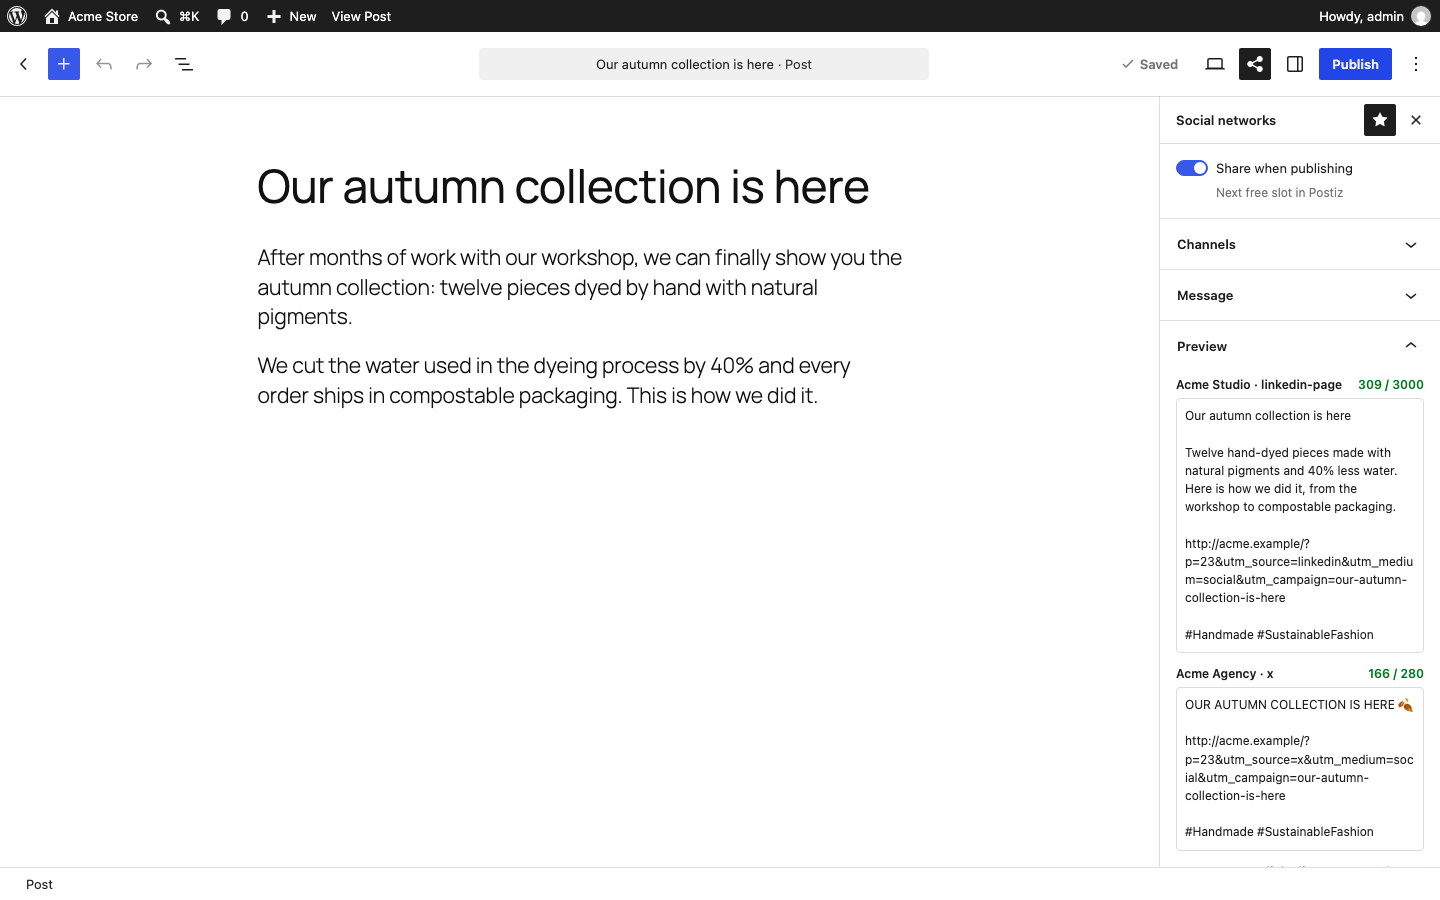
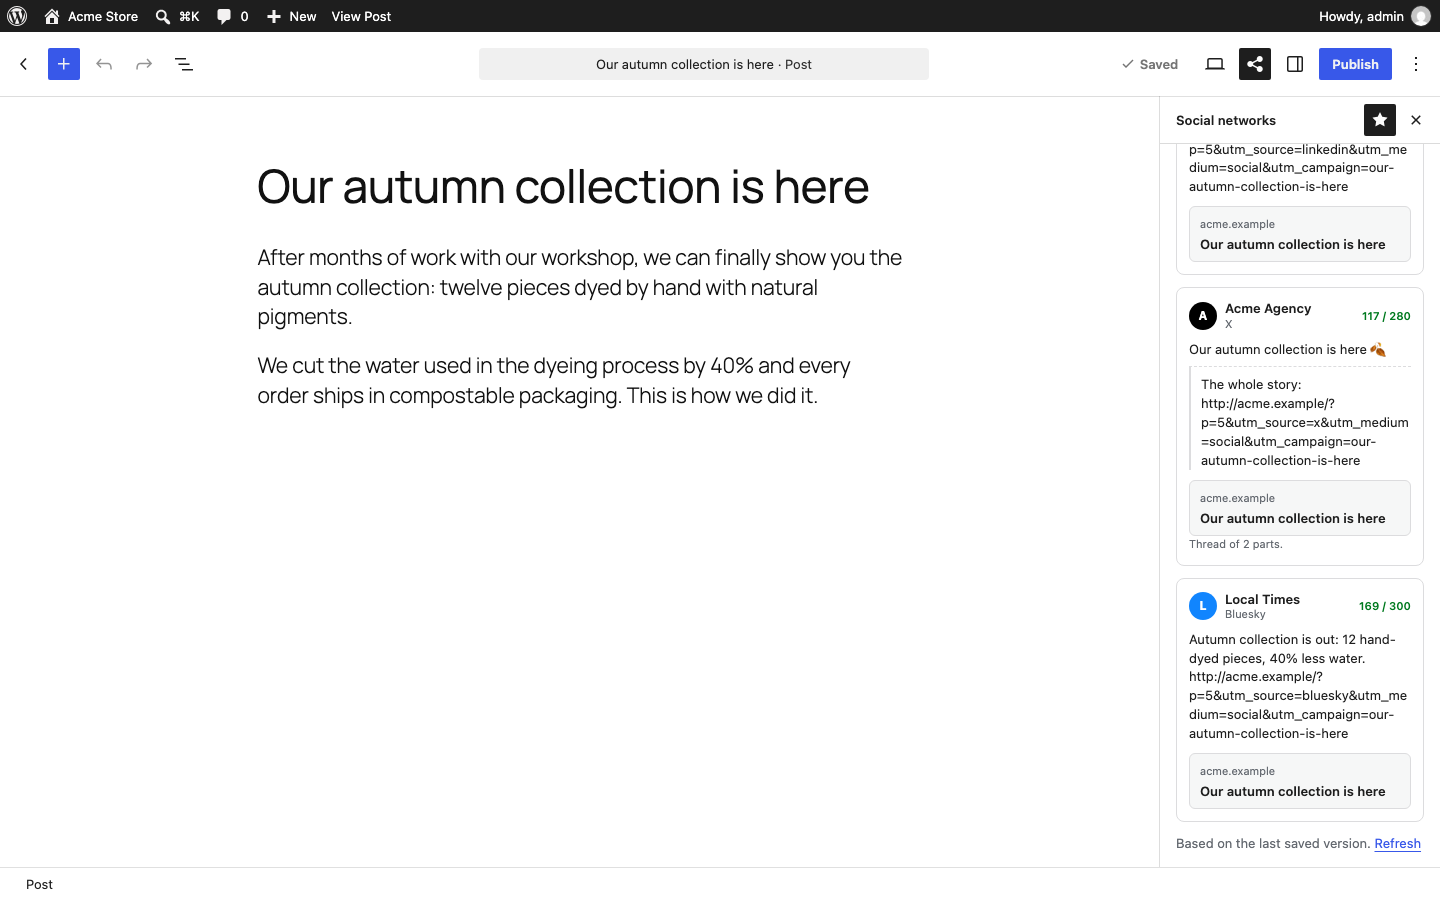
Count real requests to Postiz, compact editor tabs, new wordpress.org screenshots
- Requests in the last hour count every POST /posts (slot mode, failures and retries included).
- Per-channel tabs wrap and stay compact; the network is shown only when names repeat.
- CSS versioned by file time too; slot-mode log entries name their channel.
- Five screenshots retaken in wp-env with demo data against a local Postiz test double.

Changed region(s): [[0.8125, 0.1556, 1.0, 0.9644]]

diff --git a/assets/src/editor-panel/components/MessageSection.js b/assets/src/editor-panel/components/MessageSection.js
@@ -1,8 +1,10 @@
 import { TabPanel, TextareaControl } from '@wordpress/components';
 import { __, sprintf } from '@wordpress/i18n';
 
+import { network } from '../../common/networks';
 import { channelLabel, channelsById, config, META } from '../config';
 import { effectiveChannels } from '../hooks';
+import './message-section.css';
 
 const ALL = '__all';
 
@@ -40,13 +42,23 @@ export default function MessageSection( { meta, setMeta } ) {
 		setMeta( META.overrides, next );
 	};
 
+	// The network is only added when two selected channels share a name.
+	const names = selected.map( ( id ) => channelsById[ id ].name );
+	const tabTitle = ( id ) => {
+		const { name, identifier } = channelsById[ id ];
+		const shared = names.filter( ( other ) => other === name ).length > 1;
+		return (
+			shorten( name ) +
+			( shared ? ' · ' + network( identifier ).label : '' ) +
+			( overrides[ id ] ? ' •' : '' )
+		);
+	};
+
 	const tabs = [
 		{ name: ALL, title: __( 'All', 'social-relay-for-postiz' ) },
 		...selected.map( ( id ) => ( {
 			name: id,
-			title:
-				shorten( channelsById[ id ].name ) +
-				( overrides[ id ] ? ' •' : '' ),
+			title: tabTitle( id ),
 		} ) ),
 	];
 

diff --git a/assets/src/editor-panel/components/message-section.css b/assets/src/editor-panel/components/message-section.css
@@ -1,0 +1,17 @@
+/* Many channels: compact tabs that wrap instead of running off the sidebar. */
+.socialrelaycvi-message .components-tab-panel__tabs {
+	flex-wrap: wrap;
+	gap: 0 4px;
+	margin-bottom: 8px;
+}
+
+.socialrelaycvi-message .components-tab-panel__tabs .components-tab-panel__tabs-item.components-button {
+	flex: 0 0 auto;
+
+	/* Core sets 48px with !important. */
+	height: 32px !important;
+	min-height: 0;
+	padding: 0 8px;
+	font-size: 12px;
+	white-space: nowrap;
+}

diff --git a/assets/src/log/index.js b/assets/src/log/index.js
@@ -178,7 +178,7 @@ function LogApp() {
 							'is-error',
 						],
 						[
-							`${ stats.lastHour } / 90`,
+							`${ stats.lastHour } / ${ stats.limit || 90 }`,
 							__(
 								'Requests to Postiz in the last hour',
 								'social-relay-for-postiz'

diff --git a/tests/Unit/RequestCounterTest.php b/tests/Unit/RequestCounterTest.php
@@ -1,0 +1,85 @@
+<?php
+/**
+ * RequestCounter tests.
+ *
+ * @package SocialRelayCvi
+ */
+
+declare( strict_types=1 );
+
+namespace SocialRelayCvi\Postiz;
+
+// Option storage for the namespaced calls of RequestCounter (no WordPress in unit tests).
+if ( ! defined( 'HOUR_IN_SECONDS' ) ) {
+	define( 'HOUR_IN_SECONDS', 3600 );
+}
+
+/**
+ * In-memory options.
+ *
+ * @var array<string, mixed>
+ */
+$GLOBALS['socialrelaycvi_test_options'] = array();
+
+/**
+ * Test double for get_option().
+ *
+ * @param string $name    Option.
+ * @param mixed  $default Default.
+ * @return mixed
+ */
+function get_option( string $name, $default = false ) {
+	return $GLOBALS['socialrelaycvi_test_options'][ $name ] ?? $default;
+}
+
+/**
+ * Test double for update_option().
+ *
+ * @param string $name     Option.
+ * @param mixed  $value    Value.
+ * @param bool   $autoload Ignored.
+ */
+function update_option( string $name, $value, bool $autoload = false ): bool {
+	$GLOBALS['socialrelaycvi_test_options'][ $name ] = $value;
+	return true;
+}
+
+namespace SocialRelayCvi\Tests\Unit;
+
+use PHPUnit\Framework\TestCase;
+use SocialRelayCvi\Postiz\RequestCounter;
+
+/**
+ * Counts requests in the last hour.
+ */
+final class RequestCounterTest extends TestCase {
+
+	protected function setUp(): void {
+		$GLOBALS['socialrelaycvi_test_options'] = array();
+	}
+
+	public function test_counts_each_hit(): void {
+		RequestCounter::hit();
+		RequestCounter::hit();
+		RequestCounter::hit();
+
+		$this->assertSame( 3, RequestCounter::count() );
+	}
+
+	public function test_ignores_requests_older_than_the_window(): void {
+		$GLOBALS['socialrelaycvi_test_options'][ RequestCounter::OPTION ] = array( time() - 7200, time() - 4000, time() - 60 );
+
+		$this->assertSame( 1, RequestCounter::count() );
+
+		RequestCounter::hit();
+		$this->assertCount( 2, $GLOBALS['socialrelaycvi_test_options'][ RequestCounter::OPTION ], 'Old times are dropped on write.' );
+	}
+
+	public function test_storage_is_capped(): void {
+		for ( $i = 0; $i < RequestCounter::LIMIT * 3; $i++ ) {
+			RequestCounter::hit();
+		}
+
+		$this->assertSame( RequestCounter::LIMIT * 2, RequestCounter::count() );
+	}
+}

diff --git a/src/Postiz/RequestCounter.php b/src/Postiz/RequestCounter.php
@@ -1,0 +1,57 @@
+<?php
+/**
+ * Counts the requests that create posts in Postiz.
+ *
+ * @package SocialRelayCvi
+ */
+
+declare( strict_types=1 );
+
+namespace SocialRelayCvi\Postiz;
+
+/**
+ * Postiz allows 90 POST /posts per hour. Every attempt counts, failed ones and
+ * retries included, so the count lives here and not in the shares table (the
+ * "next free slot" mode makes one request per channel, retries add more).
+ */
+final class RequestCounter {
+
+	public const OPTION = 'socialrelaycvi_post_requests';
+
+	/**
+	 * Postiz limit per hour.
+	 */
+	public const LIMIT = 90;
+
+	/**
+	 * Records one request now.
+	 */
+	public static function hit(): void {
+		$times   = self::recent( HOUR_IN_SECONDS );
+		$times[] = time();
+
+		update_option( self::OPTION, array_slice( $times, -( self::LIMIT * 2 ) ), false );
+	}
+
+	/**
+	 * Requests in the last $seconds.
+	 *
+	 * @param int $seconds Window.
+	 */
+	public static function count( int $seconds = HOUR_IN_SECONDS ): int {
+		return count( self::recent( $seconds ) );
+	}
+
+	/**
+	 * Stored times inside the window.
+	 *
+	 * @param int $seconds Window.
+	 * @return list<int>
+	 */
+	private static function recent( int $seconds ): array {
+		$since = time() - $seconds;
+		$times = get_option( self::OPTION, array() );
+
+		return array_values( array_filter( array_map( 'intval', is_array( $times ) ? $times : array() ), static fn ( int $time ): bool => $time >= $since ) );
+	}
+}

diff --git a/uninstall.php b/uninstall.php
@@ -25,7 +25,7 @@ $wpdb->query( $wpdb->prepare( 'DROP TABLE IF EXISTS %i', $wpdb->prefix . 'social
 $wpdb->query( $wpdb->prepare( 'DROP TABLE IF EXISTS %i', $wpdb->prefix . 'socialrelaycvi_log' ) );
 // phpcs:enable
 
-foreach ( array( 'socialrelaycvi_instance_url', 'socialrelaycvi_api_base', 'socialrelaycvi_api_key', 'socialrelaycvi_profiles', 'socialrelaycvi_db_version', 'socialrelaycvi_delete_data_on_uninstall', 'socialrelaycvi_webhook_secret', 'socialrelaycvi_webhook_last' ) as $socialrelaycvi_option ) {
+foreach ( array( 'socialrelaycvi_instance_url', 'socialrelaycvi_api_base', 'socialrelaycvi_api_key', 'socialrelaycvi_profiles', 'socialrelaycvi_db_version', 'socialrelaycvi_delete_data_on_uninstall', 'socialrelaycvi_webhook_secret', 'socialrelaycvi_webhook_last', 'socialrelaycvi_post_requests' ) as $socialrelaycvi_option ) {
 	delete_option( $socialrelaycvi_option );
 }
 

diff --git a/src/Admin/AdminApp.php b/src/Admin/AdminApp.php
@@ -81,12 +81,14 @@ final class AdminApp {
 	 */
 	public static function enqueue_styles( string $name, string $handle, string $version ): void {
 		foreach ( array( $name, 'style-' . $name ) as $file ) {
-			if ( ! is_readable( SOCIALRELAYCVI_DIR . 'build/' . $file . '.css' ) ) {
+			$path = SOCIALRELAYCVI_DIR . 'build/' . $file . '.css';
+			if ( ! is_readable( $path ) ) {
 				continue;
 			}
 
+			// The asset version only follows the JavaScript; the file time also catches CSS-only changes.
 			$style = $handle . ( $file === $name ? '' : '-style' );
-			wp_enqueue_style( $style, SOCIALRELAYCVI_URL . 'build/' . $file . '.css', array( 'wp-components' ), $version );
+			wp_enqueue_style( $style, SOCIALRELAYCVI_URL . 'build/' . $file . '.css', array( 'wp-components' ), $version . '.' . (int) filemtime( $path ) );
 			wp_style_add_data( $style, 'rtl', 'replace' );
 		}
 	}

diff --git a/src/Rest/AdminController.php b/src/Rest/AdminController.php
@@ -13,6 +13,7 @@ use SocialRelayCvi\Module;
 use SocialRelayCvi\Plugin;
 use SocialRelayCvi\Postiz\EndpointResolver;
 use SocialRelayCvi\Postiz\ProviderRules;
+use SocialRelayCvi\Postiz\RequestCounter;
 use SocialRelayCvi\Profiles\ProfileRepository;
 use SocialRelayCvi\Settings\Connection;
 use SocialRelayCvi\Settings\ConnectionTester;
@@ -255,7 +256,8 @@ final class AdminController implements Module {
 				'published' => (int) ( $counts['published'] ?? 0 ),
 				'queued'    => (int) ( $counts['queued'] ?? 0 ),
 				'errors'    => (int) ( $counts['error'] ?? 0 ),
-				'lastHour'  => $this->plugin->shares->batches_since( HOUR_IN_SECONDS ),
+				'lastHour'  => RequestCounter::count( HOUR_IN_SECONDS ),
+				'limit'     => RequestCounter::LIMIT,
 			)
 		);
 	}

diff --git a/src/Sharing/ShareRepository.php b/src/Sharing/ShareRepository.php
@@ -236,23 +236,6 @@ final class ShareRepository {
 	}
 
 	/**
-	 * Requests sent to Postiz since a moment (one batch is one POST /posts).
-	 *
-	 * @param int $seconds Window in seconds.
-	 */
-	public function batches_since( int $seconds ): int {
-		global $wpdb;
-
-		return (int) $wpdb->get_var(
-			$wpdb->prepare(
-				'SELECT COUNT(DISTINCT batch) FROM %i WHERE created_at >= %s',
-				Installer::tables()['shares'],
-				gmdate( 'Y-m-d H:i:s', time() - $seconds )
-			)
-		);
-	}
-
-	/**
 	 * Latest rows of any post, for the dashboard.
 	 *
 	 * @param string $status Optional status filter.

diff --git a/src/Sharing/ShareService.php b/src/Sharing/ShareService.php
@@ -366,7 +366,7 @@ final class ShareService implements Module {
 				$type
 			),
 			$post->ID,
-			'',
+			isset( $items[1] ) ? '' : (string) $items[0]['integration_id'], // One channel per request in slot mode: name it.
 			array(
 				'batch'   => $batch,
 				'attempt' => $attempt,

diff --git a/src/Postiz/Client.php b/src/Postiz/Client.php
@@ -69,6 +69,8 @@ final class Client implements Gateway {
 	 * @return array<mixed>|WP_Error List of { postId, integration }.
 	 */
 	public function create_posts( array $payload ): array|WP_Error {
+		RequestCounter::hit();
+
 		return $this->request( 'POST', 'posts', $payload );
 	}
 

diff --git a/CHANGELOG.md b/CHANGELOG.md
@@ -14,7 +14,7 @@ All notable changes to Social Relay for Postiz. The format follows [Keep a Chang
 - Log: cards with published and failed shares (30 days), queued shares and requests to Postiz in the last hour against the 90/hour limit.
 - "Advanced" settings tab: delete all plugin data when the plugin is deleted (also forced by `SOCIALRELAYCVI_DELETE_DATA`).
 - Suggested privacy policy text (Settings → Privacy → Policy Guide).
-- wordpress.org assets in `.wordpress-org/`: icon, banner and five screenshots, plus a Live Preview blueprint.
+- wordpress.org assets in `.wordpress-org/`: icon, banner and five screenshots (taken with demo data against a local Postiz test double), plus a Live Preview blueprint.
 - `bin/build-release.sh`: builds the installable zip (production Composer dependencies, compiled JavaScript, `.distignore` applied).
 - Release workflow: on a `v*` tag, builds the zip, attaches it to a GitHub release and deploys to wordpress.org SVN once the `SVN_USERNAME`/`SVN_PASSWORD` secrets exist.
 
@@ -30,6 +30,10 @@ All notable changes to Social Relay for Postiz. The format follows [Keep a Chang
 - Plugin Check: every query uses `%i` for table names and static SQL (no interpolated clauses); `load_plugin_textdomain()` removed, translations come from translate.wordpress.org language packs.
 - Uninstall also removes the webhook options, the per-post channel and text meta, and the cached channel lists.
 - WP-CLI says what happened instead of failing silently: `share` stops with the reason when Postiz is not configured, the profile is off or the post has sharing turned off; `share --now` reports when nothing was sent and why; `cancel` reports how many pending groups it cancelled or that nothing was pending; `log` and `shares` say when there is nothing to show.
+- "Requests to Postiz in the last hour" counted share batches, not requests: in "next free slot" mode each channel is its own request, and failed attempts and retries count against the 90/hour limit too. Every POST /posts is now counted (`RequestCounter`).
+- Editor panel: with several channels the per-channel tabs ran off the sidebar and two channels with the same name could not be told apart. Tabs now wrap, stay compact and add the network only when two names match.
+- Plugin CSS is versioned by file time as well, so a CSS-only change is not hidden by the browser cache.
+- Log: in "next free slot" mode each "Sent to Postiz" entry shows its channel.
 - Styles imported from shared components are enqueued too (`build/{entry}.css` as well as `build/style-{entry}.css`).
 
 ## [0.3.1] - 2026-11-10
